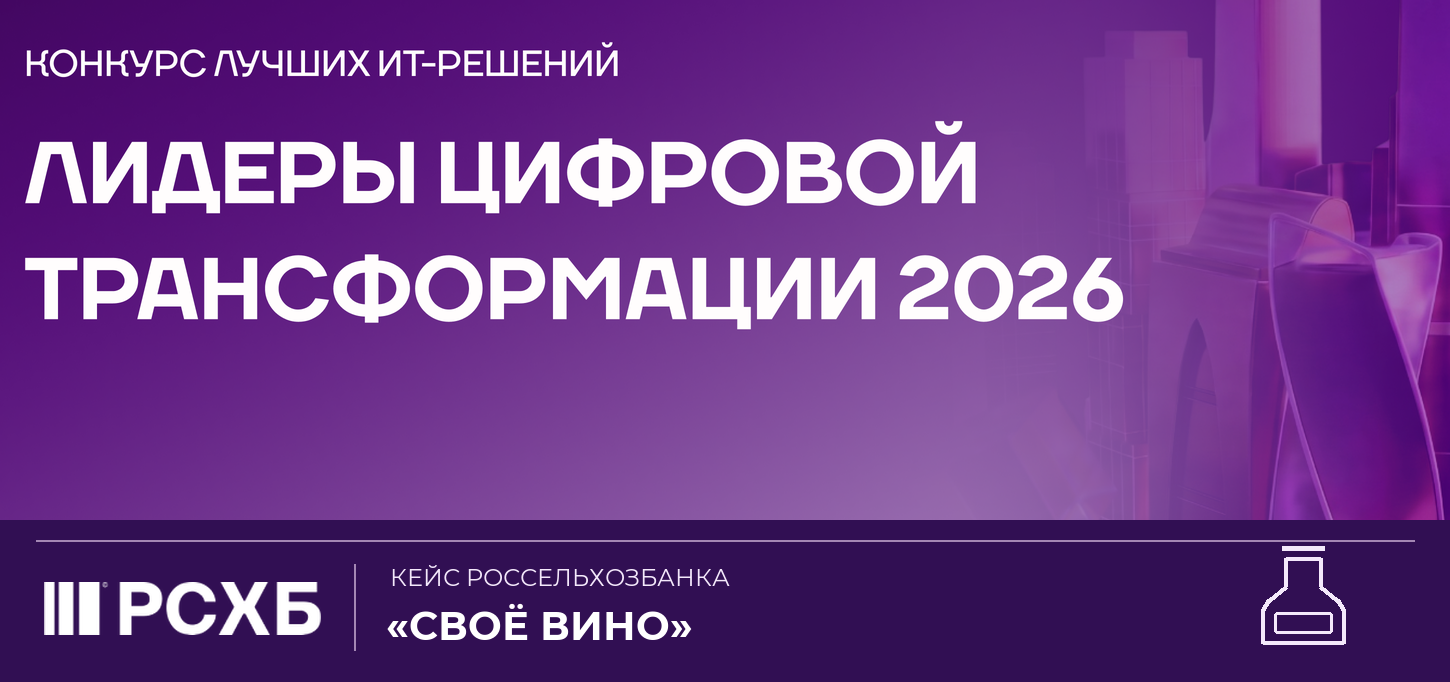
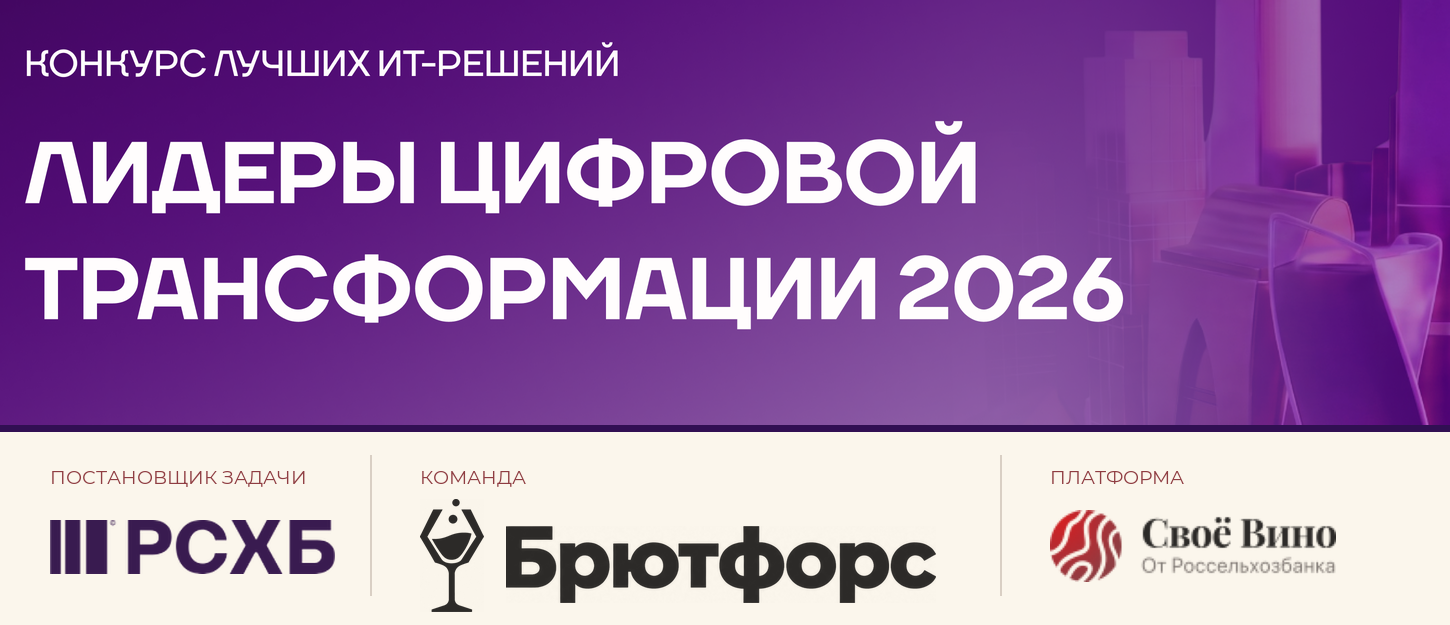
Document research and development checks in README

diff --git a/README.md b/README.md
@@ -1,6 +1,8 @@
 # BrutForce — сканер российских вин
 
-![Лидеры цифровой трансформации — 2026: кейс РСХБ «Своё Вино» и контур винной бутылки](docs/product/readme-lct-2026.png)
+<p align="center">
+  <img src="docs/product/readme-lct-2026.png" width="960" alt="Лидеры цифровой трансформации — 2026: РСХБ, команда Брютфорс и платформа «Своё Вино»">
+</p>
 
 Проект команды соревнования **«Лидеры цифровой трансформации — 2026»** по кейсу **Россельхозбанка (РСХБ)** для платформы «Своё Вино». Задача — по фотографии этикетки найти точную запись в каталоге российских вин и открыть её карточку на телефоне. Решение сочетает распознавание изображения, поиск по каталогу и мобильное веб-приложение. При отсутствии подтверждённой карточки приложение не выдаёт другое вино за точное совпадение.
 
@@ -13,6 +15,7 @@
 - [Как вызвать конкурсный API](#как-вызвать-конкурсный-api)
 - [Краткая архитектура](#краткая-архитектура)
 - [Интерфейс](#интерфейс)
+- [Исследования и проверки разработки](#исследования-и-проверки-разработки)
 - [Материалы и ограничения](#материалы-и-ограничения)
 
 ## Быстрый запуск
@@ -79,16 +82,36 @@ flowchart LR
 ## Интерфейс
 
 <p align="center">
-  <img src="design/wine-ux-v3/air35/review/home-430.png" width="220" alt="Главная: маскот-пёс с бутылкой вина и кнопка сканирования">
+  <img src="design/wine-ux-v3/air35/review/home-430.png" width="220" alt="Главная: маскот-сомелье с бутылкой вина и кнопка сканирования">
   <img src="docs/product/readme-catalog-search.png" width="220" alt="Поиск вина по названию">
   <img src="docs/product/readme-wine-card.png" width="220" alt="Карточка найденного вина">
 </p>
 
-Главная с маскотом-детективом, поиск по названию и карточка вина. Эти экраны показывают интерфейс, а не качество распознавания этикеток.
+Главная с маскотом-сомелье, поиск по названию и карточка вина. Эти экраны показывают интерфейс, а не качество распознавания этикеток.
+
+## Исследования и проверки разработки
+
+**Датасет и тестовые корзины.** Для исследования поиска по этикетке собрали банк изображений по SKU и отдельные тестовые корзины для сравнения подходов. [Журнал экспериментов Романа](https://reps.roman.dzap.pw/#experiments) показывает протоколы и top-1/top-3/top-5 для validation и test; [карта покрытия](https://reps.roman.dzap.pw/#coverage) — группы кандидатов и нехватку подтверждённых снимков по SKU. Скачанные кандидаты ещё не считаются проверенными независимыми референсами. Метрики отдельных экспериментов не являются конкурсной точностью развёрнутого сервиса.
+
+<p align="center">
+  <a href="docs/product/readme-research-experiments.jpg"><img src="docs/product/readme-research-experiments.jpg" width="440" alt="Журнал экспериментов: протоколы и метрики top-1, top-3, top-5"></a>
+  <a href="docs/product/readme-research-coverage.jpg"><img src="docs/product/readme-research-coverage.jpg" width="440" alt="Карта покрытия: кандидаты и дефицит подтверждённых снимков по SKU"></a>
+</p>
+
+**UX-исследование.** В [атласе референсов](https://reps.maks.dzap.pw/view#references) разбирали экраны винных приложений и пользовательские сценарии; [сценарии и макет](https://reps.maks.dzap.pw/view#flows) показывают, какие решения предложили для мобильного веба. На снимке — исследовательский макет с вымышленными данными, не работающий сканер.
+
+**BDD-покрытие.** При разработке агентами фиксировали ожидаемое поведение API и состояния UI в сценариях и проверяли его между ревизиями, чтобы замечать регрессии. [Карта поведения](https://reps.maks.dzap.pw/behavior/) показывает статус каждого сценария и историю прогонов. Быстрые проверки используют подменённый распознаватель и не измеряют качество поиска по фото.
+
+<p align="center">
+  <a href="docs/product/readme-ux-atlas.jpg"><img src="docs/product/readme-ux-atlas.jpg" width="440" alt="UX-атлас: сценарий от этикетки к карточке вина и кликабельный макет"></a>
+  <a href="docs/product/readme-behavior-bdd.jpg"><img src="docs/product/readme-behavior-bdd.jpg" width="440" alt="Карта поведения: статусы BDD-сценариев API и UI по ревизиям"></a>
+</p>
+
+Скриншоты — снимки отчётов; актуальные данные и подробности доступны по ссылкам выше.
 
 ## Материалы и ограничения
 
 - [Работающий прототип](https://app.dzap.pw) · [репозиторий](https://github.com/ai-babai/brutforce) · [документация](docs/README.md) · [результаты проверок](docs/SOLUTION.md).
-- Титульная графика и логотип РСХБ — из шаблона «ЛЦТ2026 Шаблон презентации», предоставленного участникам; контур бутылки добавлен командой. Главная с маскотом — из дизайн-проверки приложения, поиск и карточка — из мобильного демо BrutForce.
+- Титульная графика и знак РСХБ — из шаблона «ЛЦТ2026 Шаблон презентации», предоставленного участникам; знак команды — ранее понравившийся вариант № 01, логотип «Своё Вино» — из приложения. Главная с маскотом — из дизайн-проверки, поиск и карточка — из мобильного демо BrutForce.
 - Репозиторий сейчас приватный: для клонирования нужен доступ. Ссылка на презентацию пока не подтверждена.
 - Веса и данные не входят в Git. Публичный доступ к комплекту не подтверждает право распространять модели, каталог и фотографии. Полный Compose проверен на Mac/OrbStack (linux/amd64); отдельный запуск на чистом Linux с известным фото ещё не подтверждён.

diff --git a/README.en.md b/README.en.md
@@ -1,6 +1,8 @@
 # BrutForce — Russian wine-label scanner
 
-![Digital Transformation Leaders 2026: Rosselkhozbank's Svoe Vino challenge and a wine-bottle outline](docs/product/readme-lct-2026.png)
+<p align="center">
+  <img src="docs/product/readme-lct-2026.png" width="960" alt="Digital Transformation Leaders 2026: RSHB, the BrutForce team, and the Svoe Vino platform">
+</p>
 
 Built for the **Digital Transformation Leaders 2026** challenge from **Rosselkhozbank (RSHB)** for the Svoe Vino platform. The task is to identify an exact Russian wine catalog entry from a label photo and show its card on a phone. The system combines image retrieval, a catalog and a mobile web application; it does not label an unrelated card as an exact match.
 
@@ -13,6 +15,7 @@ Built for the **Digital Transformation Leaders 2026** challenge from **Rosselkho
 - [Call the contest API](#call-the-contest-api)
 - [Architecture at a glance](#architecture-at-a-glance)
 - [Interface](#interface)
+- [Research and development checks](#research-and-development-checks)
 - [Links and limits](#links-and-limits)
 
 ## Quick start
@@ -69,16 +72,36 @@ The app uses `/v1/photos` followed by `/v1/search` with a `photoId`. A recognize
 ## Interface
 
 <p align="center">
-  <img src="design/wine-ux-v3/air35/review/home-430.png" width="220" alt="Home screen: the detective-dog mascot holds a wine bottle beside the scan action">
+  <img src="design/wine-ux-v3/air35/review/home-430.png" width="220" alt="Home screen: the sommelier mascot holds a wine bottle beside the scan action">
   <img src="docs/product/readme-catalog-search.png" width="220" alt="Search the catalog by wine name">
   <img src="docs/product/readme-wine-card.png" width="220" alt="Wine detail card">
 </p>
 
-The home screen with the detective-dog mascot, catalog name search, and a wine card. These screens show the interface, not measured label-recognition quality.
+The home screen with the sommelier mascot, catalog name search, and a wine card. These screens show the interface, not measured label-recognition quality.
+
+## Research and development checks
+
+**Dataset and test baskets.** To research label-based retrieval, we assembled an SKU-linked image bank and separate test baskets for comparing approaches. [Roman's experiments journal](https://reps.roman.dzap.pw/#experiments) lists protocols and top-1/top-3/top-5 results on validation and test sets; the [coverage map](https://reps.roman.dzap.pw/#coverage) shows candidate groups and gaps in confirmed captures by SKU. Downloaded candidates are not automatically verified independent references. Results from individual experiments are not the contest accuracy of the deployed service.
+
+<p align="center">
+  <a href="docs/product/readme-research-experiments.jpg"><img src="docs/product/readme-research-experiments.jpg" width="440" alt="Experiments journal with protocols and top-1, top-3, top-5 metrics"></a>
+  <a href="docs/product/readme-research-coverage.jpg"><img src="docs/product/readme-research-coverage.jpg" width="440" alt="SKU coverage map with candidate groups and gaps in confirmed captures"></a>
+</p>
+
+**UX research.** The [reference atlas](https://reps.maks.dzap.pw/view#references) compares wine-app screens and user journeys; the [scenarios and prototype](https://reps.maks.dzap.pw/view#flows) show the proposed mobile-web design. The capture below is a research prototype using fictional data, not a functioning scanner.
+
+**BDD coverage.** During agent-assisted development, we captured the expected API and UI-state behavior as scenarios and checked them across revisions to catch regressions. The [behavior map](https://reps.maks.dzap.pw/behavior/) shows scenario statuses and run history. These fast checks use a stub recognizer and do not measure photo-search quality.
+
+<p align="center">
+  <a href="docs/product/readme-ux-atlas.jpg"><img src="docs/product/readme-ux-atlas.jpg" width="440" alt="UX atlas: label-to-wine-card journey and clickable prototype"></a>
+  <a href="docs/product/readme-behavior-bdd.jpg"><img src="docs/product/readme-behavior-bdd.jpg" width="440" alt="Behavior map: BDD scenario statuses for API and UI across revisions"></a>
+</p>
+
+Screenshots are snapshots; follow the linked reports for the latest data and details.
 
 ## Links and limits
 
 - [Live app](https://app.dzap.pw) · [repository](https://github.com/ai-babai/brutforce) · [documentation](docs/README.md) · [verification results](docs/SOLUTION.md).
-- The contest artwork and RSHB logo come from the participant-provided “ЛЦТ2026 Шаблон презентации” template; the team added the bottle outline. The mascot home screen is from an app design review; search and card captures are from the BrutForce mobile demo.
+- The contest artwork and RSHB mark come from the participant-provided “ЛЦТ2026 Шаблон презентации” template; the team mark uses the previously favored concept 01, and the Svoe Vino logo comes from the app. The mascot home screen is from an app design review; search and card captures are from the BrutForce mobile demo.
 - The repository is currently private; cloning requires access. A presentation URL is not confirmed.
 - Weights and data are outside Git. Public access does not establish redistribution rights. Full Compose health/catalog checks passed on Mac/OrbStack with linux/amd64 containers; clean-Linux and known-photo checks remain outstanding.
